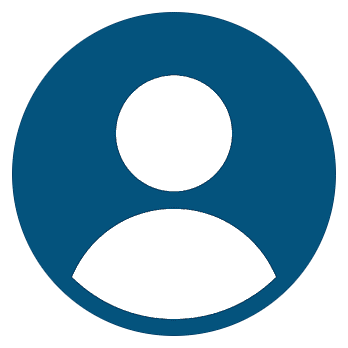
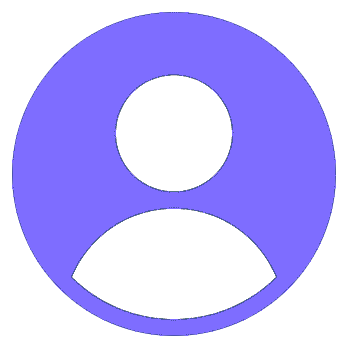
fix seach curriculum

diff --git a/lib/app/views/search_view.dart b/lib/app/views/search_view.dart
@@ -38,8 +38,7 @@ class SearchViewState extends State<SearchView> {
             Navigator.pop(context);
           },
         ),
-        title: const Text("ProgFile"),
-        centerTitle: true,
+        title: const Text("Procurar Curriculo"),
       ),
       body: Padding(
         padding: const EdgeInsets.all(16.0),
@@ -70,7 +69,6 @@ class SearchViewState extends State<SearchView> {
                       fillColor: Colors.transparent,
                       hintText: "Procurar por currículos",
                     ),
-                    //obscureText: isPassword,
                   ),
                 ),
                 const SizedBox(width: 6),
@@ -104,12 +102,14 @@ class SearchViewState extends State<SearchView> {
                     ),
                     elevation: 6,
                     margin: const EdgeInsets.symmetric(
-                        vertical: 8.0, horizontal: 8.0),
+                      vertical: 8.0,
+                      horizontal: 8.0,
+                    ),
                     child: ListTile(
                       contentPadding: const EdgeInsets.all(16.0),
                       leading: const CircleAvatar(
                         backgroundColor: Colors.black,
-                        backgroundImage: AssetImage(""),
+                        backgroundImage: AssetImage("assets/images/user.png"),
                         radius: 40,
                       ),
                       title: Text(
